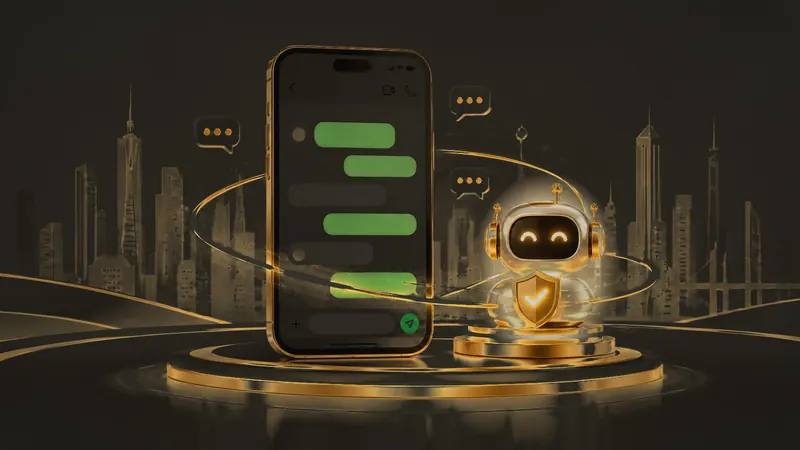
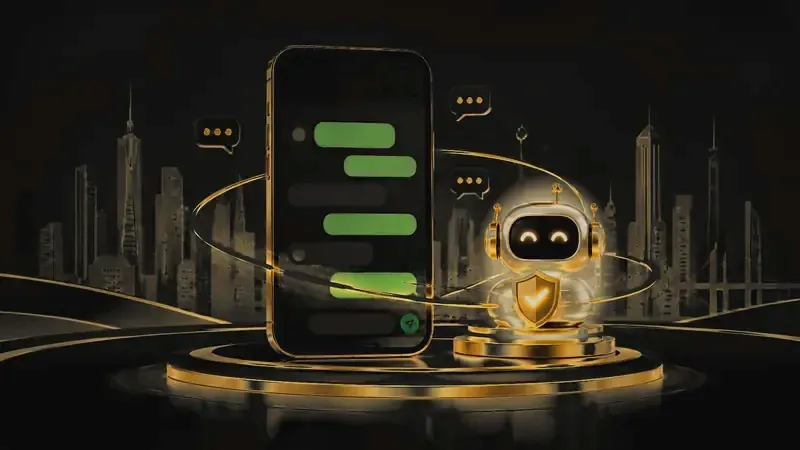
v2.10.0 new look

diff --git a/public/style.css b/public/style.css
@@ -7,7 +7,7 @@
   --gold-soft: rgba(201, 164, 92, .38);
   --gold-faint: rgba(201, 164, 92, .16);
   --grey: #737373;
-  --line: #E6E0D2;
+  --line: #E9DCC0;
   --serif: "Iowan Old Style", "Palatino Linotype", Palatino, "Book Antiqua", "Hoefler Text", Georgia, serif;
   --sans: -apple-system, BlinkMacSystemFont, "SF Pro Text", "Segoe UI", Roboto, Helvetica, Arial, sans-serif;
   --ease: cubic-bezier(.2, .7, .2, 1);
@@ -16,7 +16,7 @@
   --r-card: 24px;
 
   /* theme tokens: light (default values) */
-  --bg: #F8F6F0; --surface: #FFFFFF; --track: #F8F6F0; --field: #FFFFFF;
+  --bg: #FAF3E6; --surface: #FFFBF3; --track: #F5EBD8; --field: #FFFDF8;
   --text: #0B0B0B; --muted: #737373; --placeholder: #A3A3A3;
   --card-border: var(--gold-soft);
   --card-shadow: 0 30px 60px -34px rgba(11, 11, 11, .35), 0 2px 0 rgba(201, 164, 92, .08);
@@ -26,7 +26,7 @@
   --cta-shadow: 0 16px 28px -16px rgba(11, 11, 11, .6); --cta-hover-shadow: 0 22px 36px -16px rgba(11, 11, 11, .7);
   --cta-spin: rgba(201, 164, 92, .35); --cta-spin-top: var(--gold); --sweep: rgba(201, 164, 92, .22);
   --cta-done-bg: var(--gold); --cta-done-text: #0B0B0B;
-  --ghost-bg: #FFFFFF; --ghost-text: #0B0B0B; --ghost-border: #0B0B0B; --ghost-hover-bg: #F8F6F0;
+  --ghost-bg: #FFFBF3; --ghost-text: #0B0B0B; --ghost-border: #0B0B0B; --ghost-hover-bg: #F5EBD8;
   --gdone-bg: #0B0B0B; --gdone-text: #FFFFFF;
   --tile-glow: 0 18px 36px -14px rgba(11, 11, 11, .55);
   --invalid-ring: rgba(11, 11, 11, .08);
@@ -165,7 +165,7 @@ button { cursor: pointer; -webkit-user-select: none; user-select: none; }
 .scrim { position: fixed; top: 0; left: 0; right: 0; height: calc(env(safe-area-inset-top, 0px) + var(--bar-h) + 36px); z-index: 45; pointer-events: none;
   background: linear-gradient(to bottom, var(--bg) 0, var(--bg) calc(100% - 34px), rgba(0, 0, 0, 0)); }
 [data-theme="dark"] .scrim { background: linear-gradient(to bottom, var(--bg) 0, var(--bg) calc(100% - 34px), rgba(11, 11, 11, 0)); }
-[data-theme="light"] .scrim { background: linear-gradient(to bottom, var(--bg) 0, var(--bg) calc(100% - 34px), rgba(248, 246, 240, 0)); }
+[data-theme="light"] .scrim { background: linear-gradient(to bottom, var(--bg) 0, var(--bg) calc(100% - 34px), rgba(250, 243, 230, 0)); }
 
 /* header: brand, tagline, Pair link */
 .isl-left { display: flex; align-items: center; gap: 10px; min-width: 0; }
@@ -245,16 +245,13 @@ a.navlink:focus-visible { outline: 2px solid #FFFFFF; outline-offset: 2px; box-s
 main { position: relative; z-index: 1; flex: 1; width: 100%; max-width: 1040px; margin: 0 auto; padding: 28px max(var(--gutter), env(safe-area-inset-right)) 32px max(var(--gutter), env(safe-area-inset-left)); }
 
 /* hero */
-.hero { display: grid; gap: 22px; margin-bottom: 30px; text-align: center; }
+.hero { display: grid; gap: 22px; margin-bottom: 18px; text-align: center; }
 .hero-text { min-width: 0; }
 h1 { font-family: var(--serif); font-weight: 700; font-size: clamp(34px, 9.4vw, 56px); line-height: 1.06; letter-spacing: -.015em; margin: 0 0 14px; }
 .gold { background: linear-gradient(180deg, #C9A45C, #8A6A2B); -webkit-background-clip: text; background-clip: text; color: transparent; -webkit-text-fill-color: transparent; }
 [data-theme="dark"] .gold { background-image: linear-gradient(180deg, #FFF0C0, #E3BF74 48%, #B38C42); }
 .sub { margin: 0 auto; max-width: 30ch; color: var(--muted); font-size: clamp(17px, 4.4vw, 19px); line-height: 1.5; }
 .hr { display: block; width: 64px; height: 2px; margin: 18px auto; border-radius: 2px; background: linear-gradient(90deg, var(--gold), rgba(201, 164, 92, 0)); }
-.chips { list-style: none; margin: 0; padding: 0; display: flex; flex-wrap: wrap; justify-content: center; gap: 10px; }
-.chips li { display: inline-flex; align-items: center; gap: 8px; padding: 9px 14px 9px 11px; border: 1px solid var(--gold-soft); border-radius: 14px; background: var(--surface); font-size: 14px; line-height: 1.2; }
-.chips svg { color: var(--gold); flex: none; }
 
 
 .stage { max-width: 680px; margin: 0 auto; scroll-margin-top: 100px; }
@@ -492,10 +489,9 @@ footer p.copy { font-size: 13px; margin-top: 6px; opacity: .85; }
 }
 @media (min-width: 760px) {
   .hero { grid-template-columns: 1.05fr 1fr; align-items: center; gap: 40px; text-align: left; margin-bottom: 38px; }
-  .hero-art { order: 0; }
+  .hero-art { order: 0; margin: 0 -24px 0 0; }
   .sub { margin: 0; }
   .hr { margin-left: 0; }
-  .chips { justify-content: flex-start; }
 }
 /* FAQ heading (gold title with a chat icon and a curved gold line either side) */
 .faq-head { display: flex; align-items: center; gap: 12px; margin: 34px 0 16px; }
@@ -610,7 +606,7 @@ html.lite .bloom, html.lite .sparks { display: none; }
 html.lite .ring, html.lite .glass::after { animation: none !important; }
 html.lite .glass, html.lite .menu, html.lite .island, html.lite .card, html.lite .panel { -webkit-backdrop-filter: none !important; backdrop-filter: none !important; }
 html.lite .island, html.lite .island.scrolled { box-shadow: 0 0 0 1px rgba(154, 122, 50, .5), 0 8px 16px -8px rgba(0, 0, 0, .55); }
-html.lite .panel, html.lite .card, html.lite .hero-art, html.lite .statusbar { box-shadow: none; }
+html.lite .panel, html.lite .card, html.lite .statusbar { box-shadow: none; }
 
 /* the ID was used by the bot: a clear success message, the setup steps and the warning are no longer needed */
 .usedmsg { margin: 4px 0 14px; padding: 14px 16px; text-align: center; border-radius: var(--r-card); border: 1px solid #4FD68A; background: rgba(79, 214, 138, .1); color: var(--text); line-height: 1.5; }
@@ -645,11 +641,13 @@ html.android[data-theme] .island, html.android[data-theme] .island.scrolled { tr
 #step-number .assure { margin-top: 12px; font-size: 13.5px; }
 #step-number .collapse.off { margin-bottom: -14px; }
 
-/* the hero picture: one illustration per theme (phone + assistant robot + shield, in ivory/gold or in charcoal/gold),
-   fitted exactly to the box (same 16:9 shape as the pictures). Only the picture for the active theme is downloaded
-   at first; the other one is fetched quietly afterwards so switching themes is a smooth cross-fade. */
-.hero-art { order: -1; position: relative; aspect-ratio: 16 / 9; border-radius: var(--r-card); overflow: hidden; isolation: isolate; border: 1px solid rgba(201, 164, 92, .5);
-  background: #17140F; box-shadow: 0 0 0 1px rgba(0, 0, 0, .4), 0 18px 40px -18px rgba(201, 164, 92, .45); }
+/* the hero picture: one illustration per theme (phone + assistant robot + shield, ivory/champagne-gold or black/gold).
+   It has NO frame: no border, shadow or rounded box. Its edges fade into the page colour (mask), it runs the full width of the
+   screen, and the headline sits right under its base, so it reads as part of the page. Only the picture for the active theme is
+   downloaded at first; the other one is fetched quietly afterwards so switching themes is a smooth cross-fade. */
+.hero-art { order: -1; position: relative; aspect-ratio: 16 / 9; margin: -6px calc(var(--gutter) * -1) -14px; isolation: isolate; pointer-events: none;
+  -webkit-mask-image: linear-gradient(to right, transparent 0, #000 9%, #000 91%, transparent 100%), linear-gradient(to bottom, transparent 0, #000 12%, #000 80%, transparent 100%);
+  -webkit-mask-composite: source-in; mask-image: linear-gradient(to right, transparent 0, #000 9%, #000 91%, transparent 100%), linear-gradient(to bottom, transparent 0, #000 12%, #000 80%, transparent 100%); mask-composite: intersect; }
 .art { position: absolute; inset: 0; background-size: cover; background-position: 50% 50%; background-repeat: no-repeat; opacity: 0; transition: opacity .45s ease; pointer-events: none; }
 [data-theme="dark"] .art-dark, [data-theme="light"] .art-light { opacity: 1; }
 [data-theme="dark"] .art-dark, .hero-art.both .art-dark { background-image: url(/hero-dark-800.webp); }
@@ -658,4 +656,5 @@ html.android[data-theme] .island, html.android[data-theme] .island.scrolled { tr
   [data-theme="dark"] .art-dark, .hero-art.both .art-dark { background-image: url(/hero-dark-1200.webp); }
   [data-theme="light"] .art-light, .hero-art.both .art-light { background-image: url(/hero-light-1200.webp); }
 }
-[data-theme="light"] .hero-art { background: #F4EBD5; border-color: rgba(154, 122, 50, .5); box-shadow: 0 1px 0 rgba(255, 255, 255, .9) inset, 0 20px 40px -22px rgba(138, 106, 43, .45); }
+/* the page itself: warm ivory / champagne in light, deep black with a soft gold glow in dark */
+[data-theme="light"] .decor::before { content: ""; position: absolute; inset: 0; background: radial-gradient(80% 36% at 50% 0%, rgba(232, 205, 140, .30), transparent 72%), radial-gradient(70% 30% at 50% 100%, rgba(232, 205, 140, .22), transparent 72%); }

diff --git a/public/index.html b/public/index.html
@@ -76,11 +76,6 @@
       <h1>Connect your <span class="gold">WhatsApp</span></h1>
       <p class="sub">Securely link your account to your TurboFex bot in seconds.</p>
       <i class="hr" aria-hidden="true"></i>
-      <ul class="chips">
-        <li><svg viewBox="0 0 24 24" width="20" height="20" aria-hidden="true"><path d="M12 3l7 3v5c0 4.500-3 8-7 10-4-2-7-5.500-7-10V6z" fill="none" stroke="currentColor" stroke-width="1.600" stroke-linejoin="round"/><path d="M9 12l2.200 2.200L15.500 10" fill="none" stroke="currentColor" stroke-width="1.700" stroke-linecap="round" stroke-linejoin="round"/></svg>Encrypted storage</li>
-        <li><svg viewBox="0 0 24 24" width="20" height="20" aria-hidden="true"><path d="M13 3L5 13.500h6L10 21l8-10.500h-6z" fill="none" stroke="currentColor" stroke-width="1.600" stroke-linejoin="round"/></svg>Instant setup</li>
-        <li><svg viewBox="0 0 24 24" width="20" height="20" aria-hidden="true"><path d="M5 7h14M9 7V5h6v2M7 7l1 12h8l1-12" fill="none" stroke="currentColor" stroke-width="1.600" stroke-linecap="round" stroke-linejoin="round"/></svg>Deleted after use</li>
-      </ul>
     </div>
     <div class="hero-art" id="hero-art" role="img" aria-label="A smartphone showing a chat, with a friendly golden assistant robot holding a security shield">
       <i class="art art-dark" aria-hidden="true"></i>

diff --git a/test/site.test.js b/test/site.test.js
@@ -316,3 +316,13 @@ test('redesign: new sections exist, status comes from the real /health, nothing 
     assert.ok(!/<script(?![^>]*src=)[^>]*>/.test(html) && !/ style=/.test(html), 'still no inline scripts or styles (CSP)');
   } finally { t.close(); }
 });
+
+test('hero has no feature badges and the hero picture has no frame', () => {
+  const fs = require('fs'), path = require('path');
+  const html = fs.readFileSync(path.join(__dirname, '../public/index.html'), 'utf8');
+  const css = fs.readFileSync(path.join(__dirname, '../public/style.css'), 'utf8');
+  assert.ok(!/Instant setup|Deleted after use|class="chips"/.test(html));
+  assert.ok(!/\.chips/.test(css));
+  const rule = /\.hero-art \{[^}]*\}/.exec(css)[0];
+  assert.ok(!/border|box-shadow|overflow: hidden/.test(rule), 'no box around the picture');
+});

diff --git a/public/theme.js b/public/theme.js
@@ -8,7 +8,7 @@
   document.documentElement.setAttribute('data-theme', t);
   // the phone's status bar takes the colour of the page (the navigation floats below it)
   var m = document.querySelector('meta[name="theme-color"]');
-  if (m) m.setAttribute('content', t === 'dark' ? '#0B0B0B' : '#F8F6F0');
+  if (m) m.setAttribute('content', t === 'dark' ? '#0B0B0B' : '#FAF3E6');
   // Android phones get a lighter floating bar (same look, cheaper to draw while scrolling)
   try { if (/Android/i.test(navigator.userAgent)) document.documentElement.classList.add('android'); } catch (e) { /* normal page */ }
   // older / low-memory phones, or a visitor who asked for less data: a lighter page (fewer glowing effects, no blur)

diff --git a/public/app.js b/public/app.js
@@ -20,7 +20,7 @@
     var next = root.getAttribute('data-theme') === 'light' ? 'dark' : 'light';
     function apply() {
       root.setAttribute('data-theme', next);
-      var tc = document.querySelector('meta[name="theme-color"]'); if (tc) tc.setAttribute('content', next === 'dark' ? '#0B0B0B' : '#F8F6F0');
+      var tc = document.querySelector('meta[name="theme-color"]'); if (tc) tc.setAttribute('content', next === 'dark' ? '#0B0B0B' : '#FAF3E6');
       try { localStorage.setItem('tfx-theme', next); } catch (e) { /* not saved, still works */ }
       syncTheme();
     }

diff --git a/TURBOFEX_AI_NOTES.md b/TURBOFEX_AI_NOTES.md
@@ -84,7 +84,7 @@ cd ~/TurboFex-Pairing-site && rm -rf ~/tfx && mkdir -p ~/tfx && unzip -o ~/stora
 - **Cannot be tested in the AI sandbox:** real iPhone Safari (WebKit not available), real WhatsApp linking, WhatsApp interactive buttons, link previews, the live Render site. Say so, and ask the owner for screenshots or Render logs when something fails.
 
 ## 8. Version history (short)
-v1.x crash fix, pairing site, redesign, dark mode, floating island, sounds -> v2.0.0 black/gold redesign -> v2.1.x design correction (hero centred, light mode everywhere) -> v2.2.x island visible on Safari, refresh continues, footer space -> v2.3.0 FAQ + side-by-side cards + soft sounds + low-end mode -> v2.4.0 separate session-ID message -> **v2.5.0 links together in one message with full-width picture card -> v2.5.1 this notes file moved inside the site project -> v2.6.0 order: links first, note, session ID last; the card is the real WhatsApp Channel preview -> v2.7.0 the page detects when the bot used the ID and says so -> v2.8.0 smoother floating bar on Android, Help opens Telegram, version and footer sentence removed -> v2.8.1 shorter connection card -> v2.9.0 new hero illustration (light + dark) -> v2.9.1 current WhatsApp Web version for linking + hint on the code page -> **v2.9.2** five version sources, newest wins, each logged.
+v1.x crash fix, pairing site, redesign, dark mode, floating island, sounds -> v2.0.0 black/gold redesign -> v2.1.x design correction (hero centred, light mode everywhere) -> v2.2.x island visible on Safari, refresh continues, footer space -> v2.3.0 FAQ + side-by-side cards + soft sounds + low-end mode -> v2.4.0 separate session-ID message -> **v2.5.0 links together in one message with full-width picture card -> v2.5.1 this notes file moved inside the site project -> v2.6.0 order: links first, note, session ID last; the card is the real WhatsApp Channel preview -> v2.7.0 the page detects when the bot used the ID and says so -> v2.8.0 smoother floating bar on Android, Help opens Telegram, version and footer sentence removed -> v2.8.1 shorter connection card -> v2.9.0 new hero illustration (light + dark) -> v2.9.1 current WhatsApp Web version for linking + hint on the code page -> v2.9.2 five version sources, newest wins, each logged -> **v2.10.0** new look: no hero badges, frameless full-width hero that fades into the page (CSS mask), light = ivory/champagne (--bg #FAF3E6), dark = black/gold; dark hero picture recoloured to remove the brown tint.
 
 ## 9. Open ideas the owner has not decided
 - Keep Render awake with a free pinger on `/health`.
